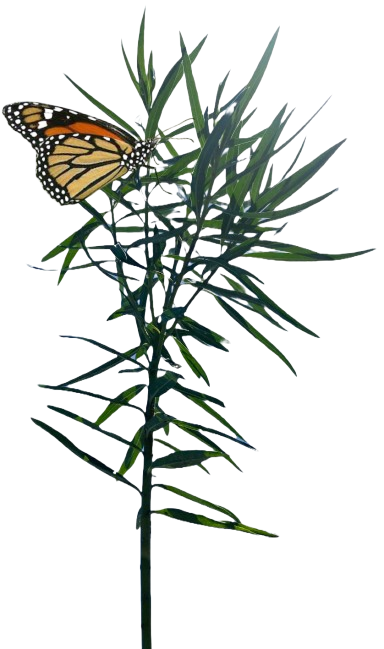
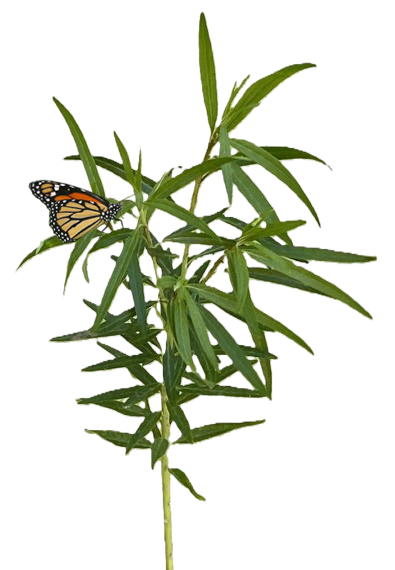
Making changes to Images on view pages and home page. Main image has been changed to remove the sunlight relefection that was on the plant in the image The images on the view pages (inculdes close view) were played aorund with to get better site performance but were chnaged back due to no great perf
Icons have alos been added in but wairting to see if addition will go through as each icon image isn't simmilar (they have different line thicjknesses etc...

diff --git a/style.css b/style.css
@@ -26,8 +26,12 @@ body {
   font-family: "eb garamond", "Libertinus Sans";
 }
 
+#d_firstView{
+  background-color:#C4CBCA ;
+}
+
 header {
-  height: 12.5vh;
+  height: 13.5vh;
   width: 100%;
   /*  background-color: #C4CBCA; */
   border-radius: 50px;
@@ -381,11 +385,10 @@ HOME PAGE STYLES BELOW
 
 #d_homeGridMain {
   display: grid;
-  background-color: #C4CBCA;
   border-bottom-style: solid;
   border-width: 1px;
   border-color: #1B2019;
-  height: 87.5vh;
+  height: 86.5vh;
 
 }
 
@@ -405,17 +408,11 @@ HOME PAGE STYLES BELOW
   align-items: center;
 }
 
-#d_homeTakeLookButton {
-  display: flex;
-  justify-content: center;
-}
-
 #b_takeLook {
   color: white;
   background-color: #26530C;
   border-radius: 20px;
   padding: 1%;
-  align-self: flex-start;
 }
 
 #b_takeLook:hover {
@@ -910,6 +907,11 @@ ORDER PAGE STYLES BELOW
 /********** Large screen size **********/
 @media (min-width:850px) {
 
+.i_navIcon{
+  width: 40%;
+  height:75%;
+}
+
   #i_backToTop {
     height: 80%;
     width: 50%
@@ -939,7 +941,7 @@ HOME PAGE STYLES BELOW
   /********** Main Css grid ********/
   #d_homeGridMain {
     grid-template-columns: 2fr repeat(3, 1fr);
-    grid-template-rows: 2fr 1.5fr 1fr;
+    grid-template-rows: 2fr 1fr 1.25fr;
   }
 
   #d_homeMainImage {
@@ -951,7 +953,7 @@ HOME PAGE STYLES BELOW
   }
 
   #h1_homeMainHeader {
-    font-size: 7.75vw;
+    font-size: 7.5vw;
     margin-left: 5%;
     margin-right: 5%;
     margin-top: 2%;
@@ -964,7 +966,7 @@ HOME PAGE STYLES BELOW
   }
 
   #h3_subHeader {
-    font-size: 5.5vh;
+    font-size: 5vh;
   }
 
 
@@ -974,7 +976,7 @@ HOME PAGE STYLES BELOW
 
   #b_takeLook {
     font-size: 3.5vw;
-    margin-top: 4%;
+    /*margin-top: 4%; */
   }
 
   /********************************/
@@ -1065,8 +1067,8 @@ Care PAGE STYLES BELOW
   }
 
   #h1_careGrow {
-  margin-top: 4%;
-}
+    margin-top: 4%;
+  }
 
 
   .h2_careDes {
@@ -1163,7 +1165,7 @@ Care PAGE STYLES BELOW
     grid-template-columns: 1fr 1fr;
     grid-template-rows: 0.75fr 1.75fr;
     margin-top: 1%;
-    margin-bottom: 10%;
+    margin-bottom: 5%;
   }
 
   #d_toxicPlantExplain {
@@ -1175,7 +1177,7 @@ Care PAGE STYLES BELOW
   }
 
   #p_effectOfPlant {
-    margin-top: 2%;
+    margin-top: 1.5%;
   }
 
   #h2_toxicPlant {
@@ -1293,8 +1295,10 @@ ORDER VIEW PAGE STYLES BELOW
 /*********************/
   /***********************************************************/
   #h1_orderFormHeader {
-    margin-top: 1.5%;
+    margin: 5% 0% 4% 0%;
     font-size: 6vw;
+    text-underline-offset: 17.5px;
+
   }
 
   #h2_checkingAccount {
@@ -1597,7 +1601,7 @@ HOME PAGE STYLES BELOW
   /* price */
   #h4_topSeller {
     margin-top: 15%;
-    margin-bottom: 10%; 
+    margin-bottom: 10%;
   }
 
 
@@ -1611,8 +1615,8 @@ HOME PAGE STYLES BELOW
     font-size: 7vw;
   }
 
-  #h1_careGrow{
-    margin-top:7.5%;
+  #h1_careGrow {
+    margin-top: 7.5%;
   }
 
   #h1_careProb {
@@ -1753,6 +1757,11 @@ HOME PAGE STYLES BELOW
   #d_viewPlantsGrid {
     grid-template-columns: repeat(2, 1fr);
     grid-template-rows: repeat(2, 1fr);
+    margin-bottom: 13.5%;
+  }
+
+  .d_viewSwanPlants {
+    margin-top: 10%;
   }
 
   #d_smallSwanPlant {
@@ -1820,8 +1829,9 @@ ORDER VIEW PAGE STYLES BELOW
   /***********************************************************/
 
   #h1_orderFormHeader {
-    margin-top: 3%;
+    margin: 5.5% 0% 4.5% 0%;
     font-size: 8vw;
+    text-underline-offset: 12.5px;
   }
 
 
@@ -1909,7 +1919,7 @@ HOME PAGE STYLES BELOW
   /********** Main Css grid ********/
   #d_homeGridMain {
     grid-template-columns: repeat(3, 1fr);
-    grid-template-rows: 2.5fr 1.5fr 1fr;
+    grid-template-rows: 2fr 1fr 1fr;
     height: 90vh;
   }
 
@@ -2005,6 +2015,16 @@ CARE PAGE STYLES BELOW
 
   /***********************************************************/
   /*********************
+VIEW PAGE STYLES BELOW 
+/*********************/
+  /***********************************************************/
+
+  .d_viewSwanPlants {
+    margin-top: 15%;
+  }
+
+  /***********************************************************/
+  /*********************
 CLOSE VIEW PAGE STYLES BELOW 
 /*********************/
   /***********************************************************/
@@ -2058,6 +2078,17 @@ CLOSE VIEW PAGE STYLES BELOW
 
   #a_orderForm {
     font-size: 7vw;
+  }
+
+
+  /***********************************************************/
+  /*********************
+ORDER PAGE STYLES BELOW 
+/*********************/
+  /***********************************************************/
+
+  #h1_orderFormHeader {
+    text-underline-offset: 10px;
   }
 
 }
@@ -2237,14 +2268,14 @@ HOME PAGE STYLES BELOW
 CARE PAGE STYLES BELOW 
 /*********************/
   /***********************************************************/
-  
-  #h1_careGrow{
-    margin-top:15%;
-    font-size:7vw;
+
+  #h1_careGrow {
+    margin-top: 15%;
+    font-size: 7vw;
 
   }
 
-    #h2_greenHouse {
+  #h2_greenHouse {
     margin-top: 2.5%;
   }
 
@@ -2297,7 +2328,7 @@ CARE PAGE STYLES BELOW
     margin-right: 5%;
   }
 
-  
+
 
   .h3_effetsOfSap {
     font-size: 5vw;
@@ -2478,6 +2509,8 @@ ORDER VIEW PAGE STYLES BELOW
   #h1_orderFormHeader {
     margin-top: 5%;
     font-size: 12vw;
+        text-underline-offset: 8px;
+
   }
 
   #h2_checkingAccount {

diff --git a/index.html b/index.html
@@ -42,11 +42,13 @@
 
                 </div>
                 <div class="d_headerLink" id="d_headerLinkCare">
-                    <a class="a_change" href="care.html">Care</a>
+                   <!--- <img class="i_navIcon" src="images/careIcon.png" onclick="window.location='care.html'"> -->
+                 <a class="a_change" href="care.html">Care</a> 
 
                 </div>
                 <div class="d_headerLink" id="d_headerLinkOrder">
-                    <a class="a_change" href="order.html">Order</a>
+                   <!--- <img class="i_navIcon" src="images/orderIcon.png" onclick="window.location='order.html'"> -->
+                <a class="a_change" href="order.html">Order</a> 
                 </div>
 
             </div>
@@ -67,9 +69,8 @@
                 <h3 id="h3_subHeader"> Create a home for butterflies and bring life to your backyard, With these swan
                     plants.</h3>
             </div>
-            <div id="d_homeTakeLookButton">
+            <div id="d_homeTakeLookButton" class="d_alignCenterVertHori">
                 <button id="b_takeLook" onclick="window.location='view.html'">Take a look</button>
-
             </div>
         </div>
     </div>
